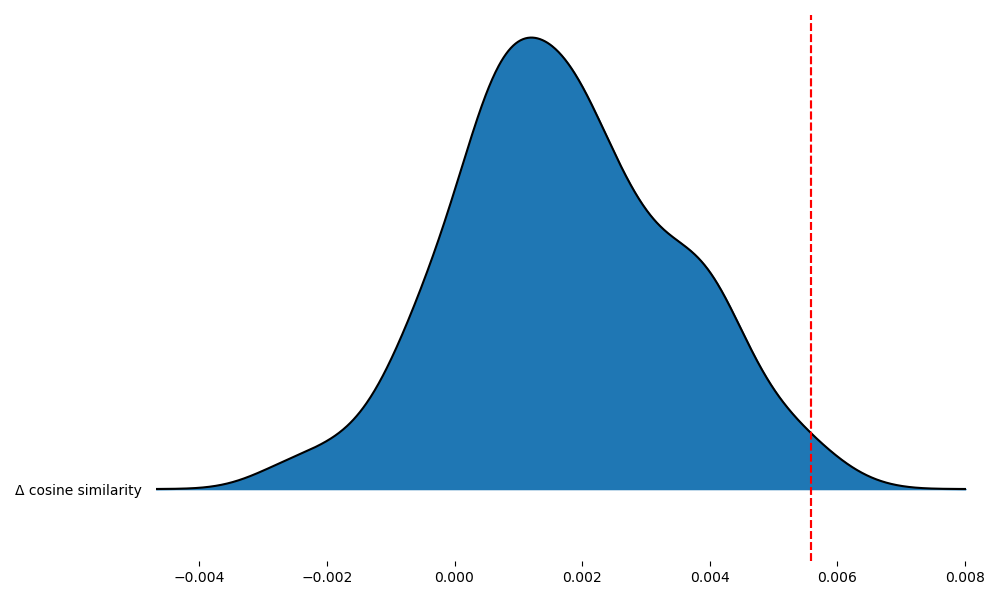
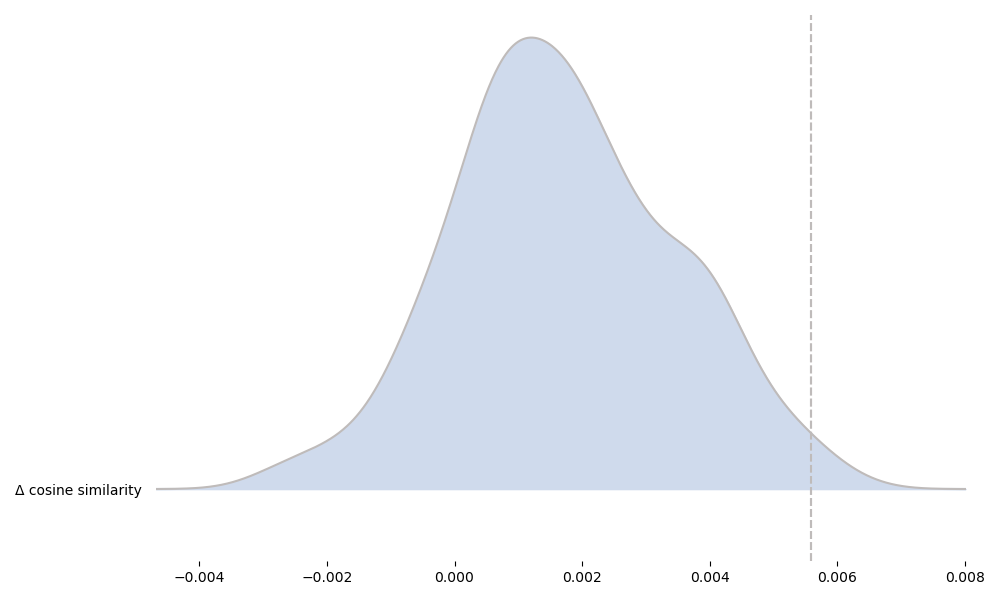
changed figure color

Changed region(s): [[0.155, 0.06, 0.961, 0.84]]

diff --git a/visualization.py b/visualization.py
@@ -113,19 +113,67 @@ def train_data_decline_line():
     ret = pd.DataFrame(ret, columns=["Δ cosine similarity"])
 
     # plot with joyplot
-    fig, axes = joypy.joyplot(ret, figsize=(10, 6))
+    fig, axes = joypy.joyplot(ret, figsize=(10, 6), 
+                              color="#CFDAEC", linecolor="#BFBBBA", overlap=2)
 
     # draw a line on 90% percentile
     for ax in axes:
-        ax.axvline(ret.quantile(0.99).values, color='r', linestyle='--')
+        ax.axvline(ret.quantile(0.99).values, color="#BFBBBA", linestyle='--')
 
-    plt.tight_layout()
     plt.savefig("./src/results/train_data_decline_distribution.png")
     return
 
+def cos_sim_distribution(path:str):
+    '''input: cosine similarity csv file 
+            rows: text
+            cols: image
+        output: None
+        save the visualization(joyplot-mountain) of the cosine similarity distribution
+        grouping by image type
+        only consider malicious text
+    '''
+    # read the csv file
+    df = pd.read_csv(path)
+    df = df[df["is_malicious"]==1]
+    df = df.melt(id_vars=["is_malicious"], var_name="pic_type", value_name="cos_sim")
+    print(f"shape: {df.shape}")
+
+    pic_types = df.columns
+
+    # plot the distribution, x-axis: cossim, y-axis: frequency
+    nplot = df.shape[1]
+    # Draw Plot
+    fig, axes = joypy.joyplot(df,
+                            colormap=plt.cm.get_cmap("Spectral", nplot),
+                            figsize=(10, 6))
+    # plt.show()
+    plt.savefig(".\\src\\results\\cos_sim_of_mix_text.png")
+
+    # create a new dataframe with columns: adversarial, benign, pic_type
+    # and the value is the cosine similarity, with the corresponding type
+    df2 = pd.DataFrame(columns=["adversarial", "benign", "pic_type"])
+    for i in range(df.shape[1]):
+        adversarial = df.iloc[:40,i]
+        benign = df.iloc[40:,i].reset_index(drop=True)
+        # get a 40 row , 2 col dataframe
+        temp = pd.DataFrame({"adversarial":adversarial, "benign":benign, "pic_type":[pic_types[i]]*40})
+        df2 = pd.concat([df2, temp])
+    # Draw Plot
+    plt.figure(figsize=(16,10), dpi= 80)
+    fig, axes = joypy.joyplot(df2,
+                            by="pic_type",
+                            column=['adversarial', 'benign'],
+                            colormap=plt.cm.get_cmap("Spectral", nplot),
+                            figsize=(10, 6))
+    
+    # plt.show()
+    plt.savefig(".\\src\\results\\cos_sim_of_sep_text.png")
+    return
 
 if __name__ == "__main__":
+    # cos_sim_distribution("./src/intermediate-data/similarity_matrix_validation.csv")
     train_data_decline_line()
+
     # f = "MLM/src/intermediate-data/similarity_matrix_test.csv"
     # df = pd.read_csv(f)
     # # print(df.columns)

diff --git a/utils.py b/utils.py
@@ -51,49 +51,6 @@ def array_to_img(path:str):
         plt.imsave(f"E:\\research\\MLLM\\src\\image\\denoised\\{name}_{i}.bmp", samples[i])
     return
 
-def cos_sim_distribution(path:str):
-    '''input: cosine similarity csv file 
-            rows: text
-            cols: image
-        output: None
-        save the visualization of the cosine similarity distribution
-    '''
-    # read the csv file
-    df = pd.read_csv(path)
-    df.drop(["text"],inplace=True, axis=1)
-    print(f"shape: {df.shape}")
-
-    pic_types = df.columns
-
-    # plot the distribution, x-axis: cossim, y-axis: frequency
-    nplot = df.shape[1]
-    # Draw Plot
-    fig, axes = joypy.joyplot(df,
-                            colormap=plt.cm.get_cmap("Spectral", nplot),
-                            figsize=(10, 6))
-    # plt.show()
-    plt.savefig(".\\src\\results\\cos_sim_of_mix_text.png")
-
-    # create a new dataframe with columns: adversarial, benign, pic_type
-    # and the value is the cosine similarity, with the corresponding type
-    df2 = pd.DataFrame(columns=["adversarial", "benign", "pic_type"])
-    for i in range(df.shape[1]):
-        adversarial = df.iloc[:40,i]
-        benign = df.iloc[40:,i].reset_index(drop=True)
-        # get a 40 row , 2 col dataframe
-        temp = pd.DataFrame({"adversarial":adversarial, "benign":benign, "pic_type":[pic_types[i]]*40})
-        df2 = pd.concat([df2, temp])
-    # Draw Plot
-    plt.figure(figsize=(16,10), dpi= 80)
-    fig, axes = joypy.joyplot(df2,
-                            by="pic_type",
-                            column=['adversarial', 'benign'],
-                            colormap=plt.cm.get_cmap("Spectral", nplot),
-                            figsize=(10, 6))
-    
-    # plt.show()
-    plt.savefig(".\\src\\results\\cos_sim_of_sep_text.png")
-    return
 
 def add_gaussian_noise(fpath:str, savepath:str, var=0.01, times=1):
     '''add gaussian noise to the image, 
